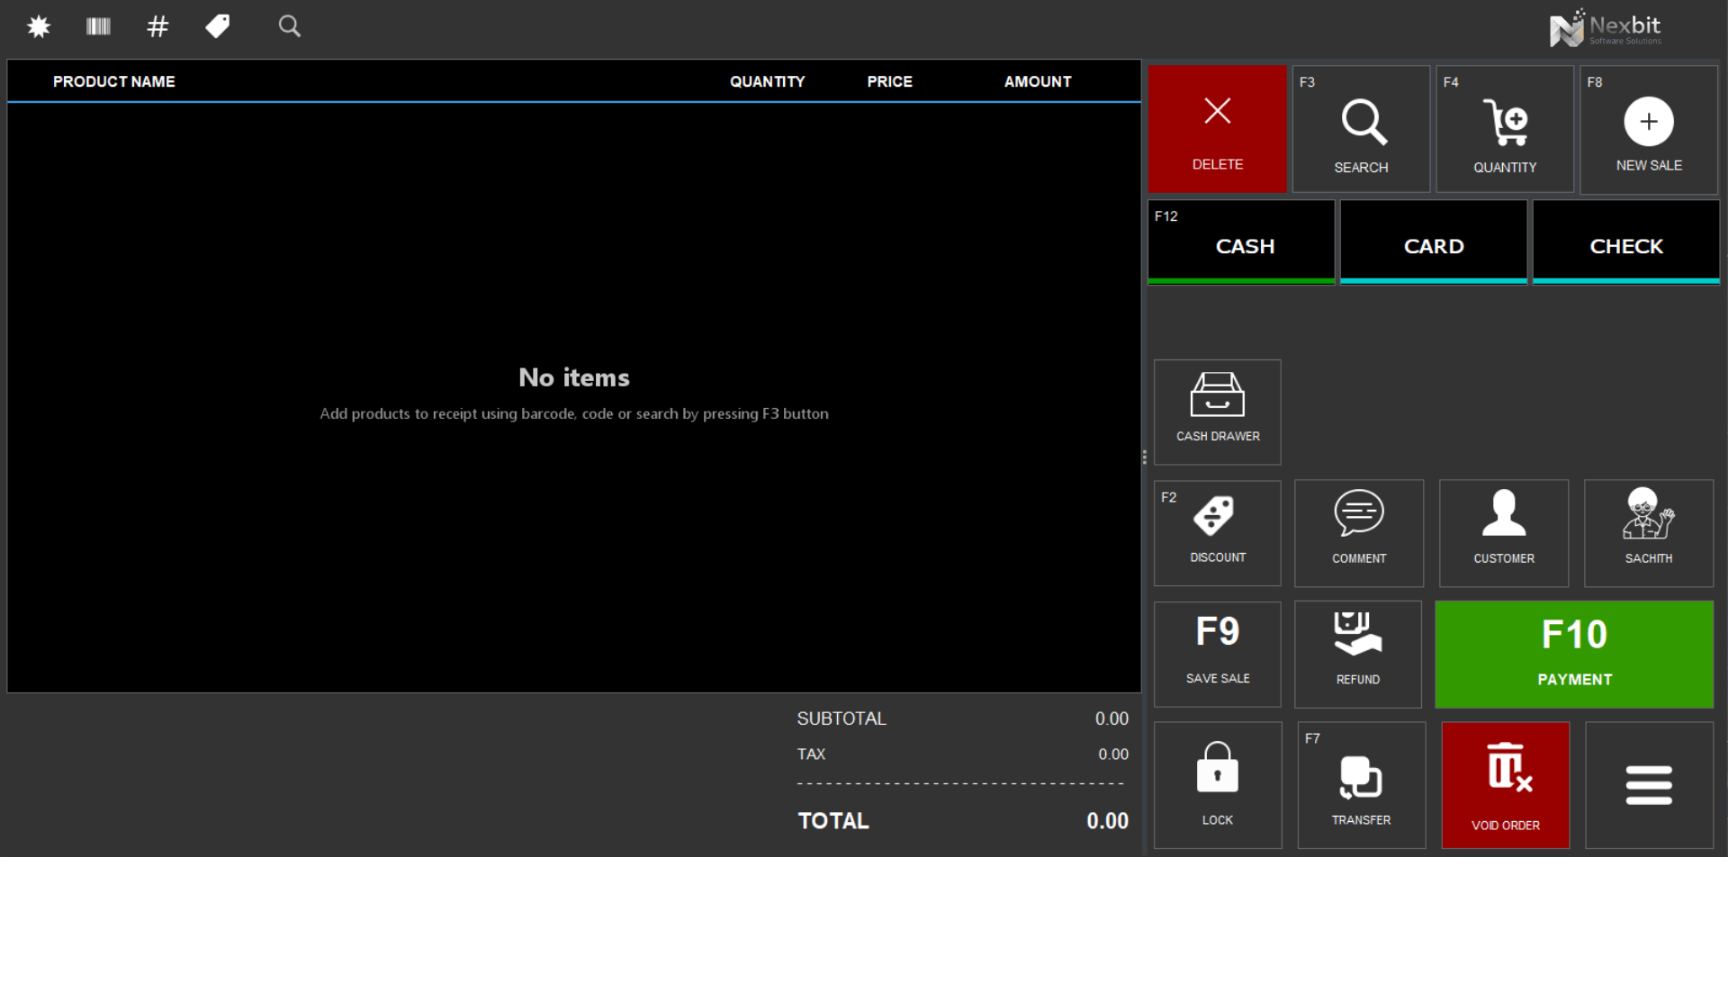
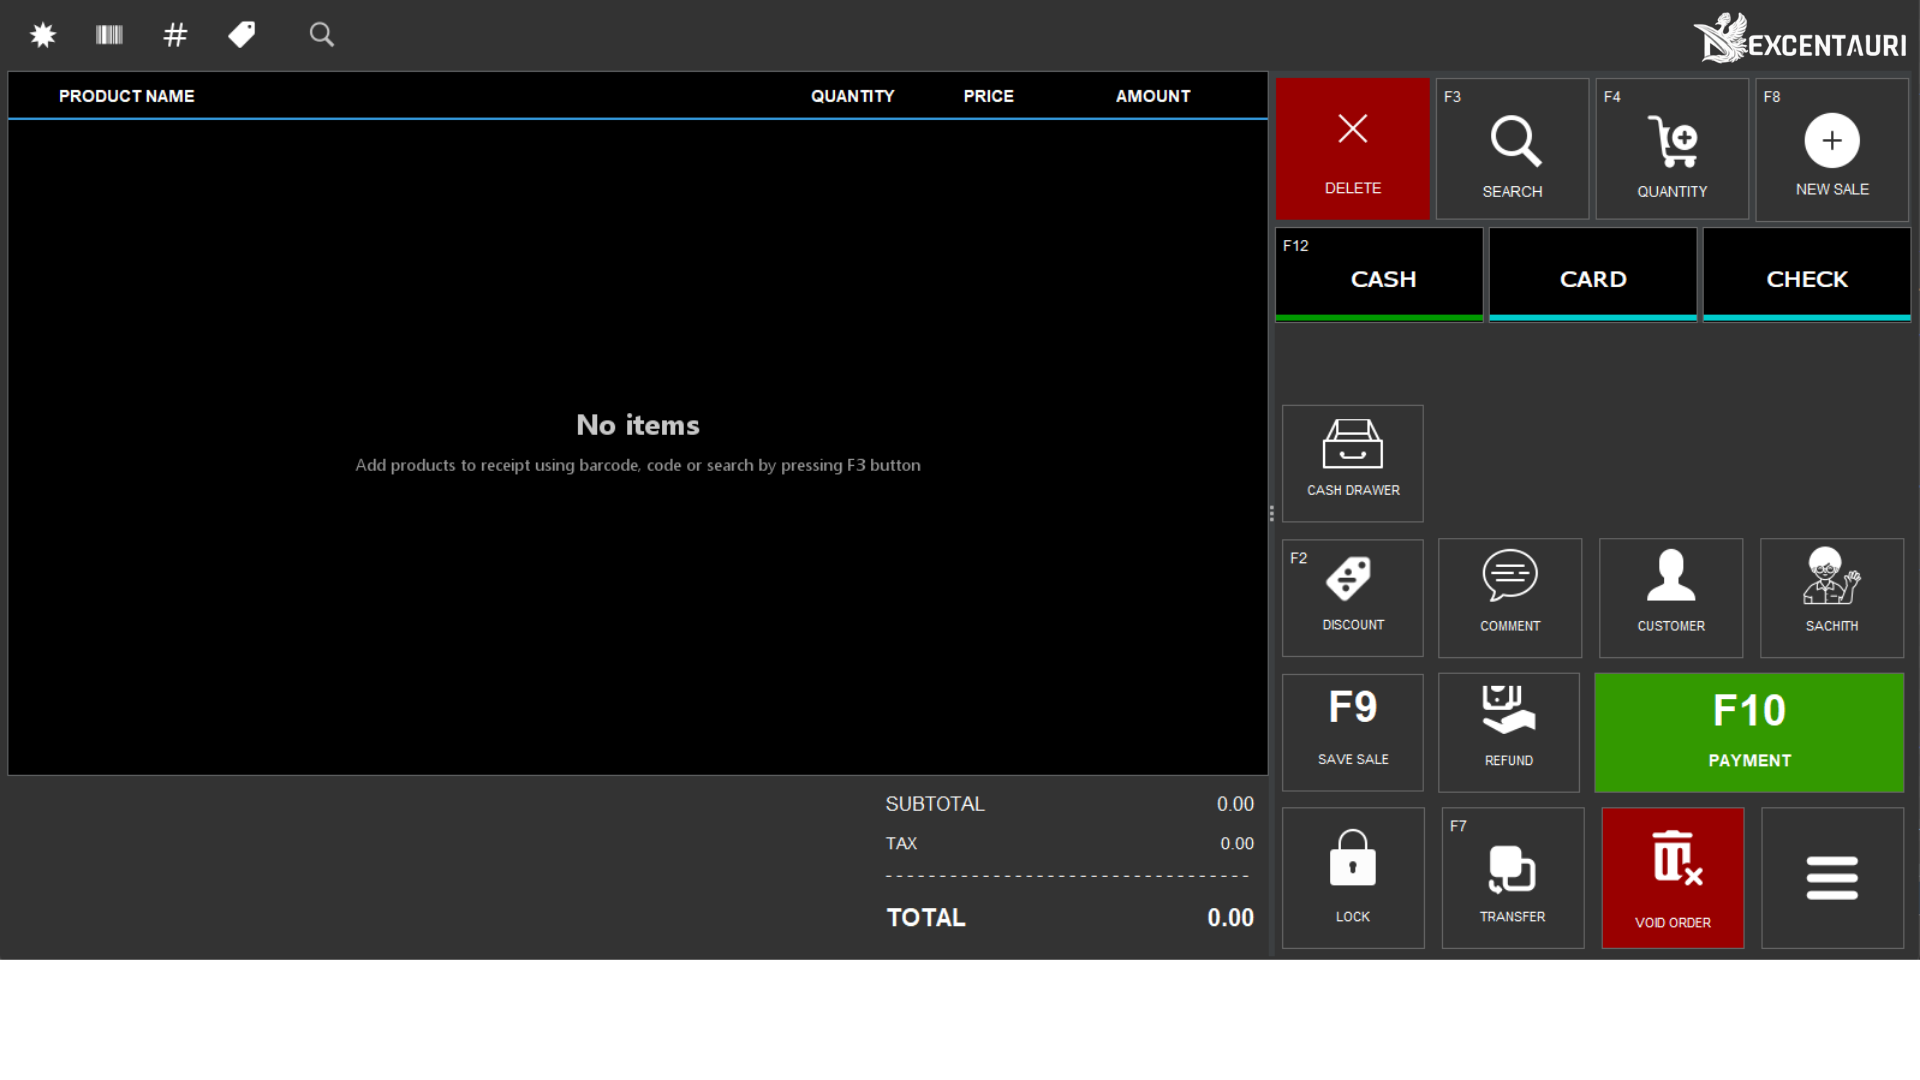
v1.1.5

diff --git a/src/components/navigation/navbar.tsx b/src/components/navigation/navbar.tsx
@@ -18,6 +18,7 @@ import React, { useEffect, useState } from 'react';
 import MaxWidthWrapper from "../global/max-width-wrapper";
 import MobileNavbar from "./mobile-navbar";
 import AnimationContainer from "../global/animation-container";
+import Image from "next/image";
 
 const Navbar = () => {
 
@@ -48,10 +49,19 @@ const Navbar = () => {
             <AnimationContainer reverse delay={0.1} className="size-full">
                 <MaxWidthWrapper className="flex items-center justify-between">
                     <div className="flex items-center space-x-12">
-                        <Link href="/#home">
-                            <span className="text-lg font-bold font-heading !leading-none">
+                        <Link href="/#home" className="flex items-center gap-2">
+                            <Image
+                                src="/logo2.png"
+                                alt="Nexcentauri Logo"
+                                width={200}
+                                height={200}
+                                className="object-contain"
+                                priority
+                            />
+
+                            {/* <span className="text-lg font-bold font-heading !leading-none hidden md:block">
                                 Nexcentauri
-                            </span>
+                            </span> */}
                         </Link>
 
                         <NavigationMenu className="hidden lg:flex">

diff --git a/src/utils/constants/misc.ts b/src/utils/constants/misc.ts
@@ -85,7 +85,7 @@ export const TEAMMEMBERS = [
     },
     {
         name: "Sachith Gunarathna",
-        role: "Co-Founder & Lead Software Engineer",
+        role: "Lead Software Engineer",
         description: "Full-stack expert specializing in Java, Next.js, and Cinematic Web Design.",
         image: "/team/sachith-gunarathna.jpg",
         links: {
@@ -107,7 +107,7 @@ export const TEAMMEMBERS = [
     },
     {
         name: "Pandula Bandara",
-        role: "Senior Software Engineer",
+        role: " Software Engineer",
         description: "Full-stack expert specializing in Java, Next.js, and Cinematic Web Design.",
         image: "/team/user.jpg",
         links: {

diff --git a/src/components/global/icons.tsx b/src/components/global/icons.tsx
@@ -5,11 +5,12 @@ import Image from "next/image";
 export const Icons = {
 
     logo: (props: LucideProps) => (
-        <div className="relative h-20 w-20 overflow-hidden">
+        <div className="relative h-30 w-30 overflow-hidden">
             <Image
-                src="/Nexbit.png" 
+                src="/logo2.png" 
                 alt="Nexbir Logo"
-                fill 
+                width={200}
+                height={200}
                 className="object-contain" 
                 priority
             />
